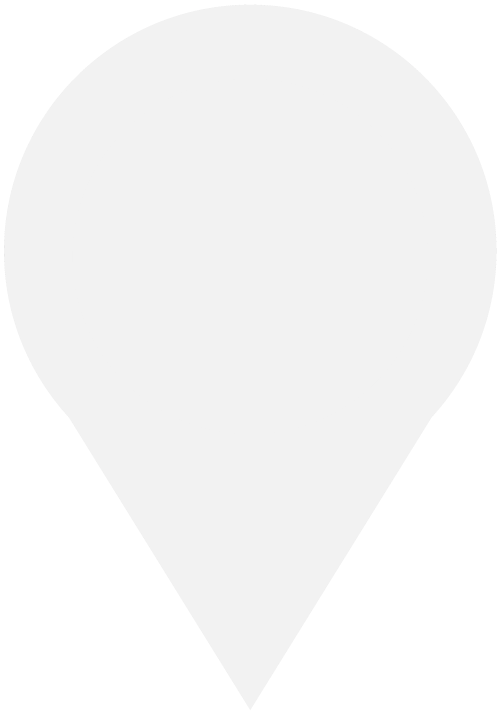
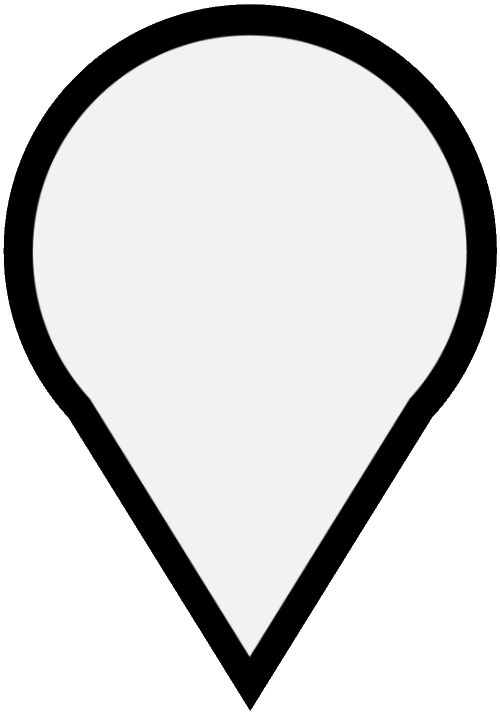
Refresh button. User photos on map markers.

Changed region(s): [[0.0, 0.0, 1.0, 1.0]]

diff --git a/app/screens/MapScreen.js b/app/screens/MapScreen.js
@@ -93,7 +93,7 @@ export default class MapScreen extends Component {
       this.updateMapMarkers();
     });
 
-    this.markersUpdateInterval = setInterval(this.updateMapMarkers, 10 * 1000);
+    //this.markersUpdateInterval = setInterval(this.updateMapMarkers, 10 * 1000);
 
     const { navigation } = this.props;
     this.focusListener = navigation.addListener("didFocus", () => {
@@ -119,6 +119,7 @@ export default class MapScreen extends Component {
   }
 
   componentWillUnmount() {
+    this.focused = false;
     this.focusListener.remove();
     this.blurListener.remove();
 
@@ -142,6 +143,7 @@ export default class MapScreen extends Component {
   }
 
   updateUserMarker() {
+    if (!this.focused) return;
     let markers = this.state.markers;
     // Add user marker
     if (UserData.location != null) {
@@ -169,6 +171,16 @@ export default class MapScreen extends Component {
     if (!this.focused) {
       return;
     }
+
+    let currentTime = new Date().getSeconds();
+    if (
+      this.timeSinceUpdatedMarkers &&
+      currentTime - this.timeSinceUpdatedMarkers < 10
+    ) {
+      return;
+    }
+    this.timeSinceUpdatedMarkers = currentTime;
+
     console.log("Updating markers");
     let markers = [];
 
@@ -201,6 +213,7 @@ export default class MapScreen extends Component {
             contentId: entry.val().imageId,
             title: entry.val().displayName,
             image: require("../../assets/map-marker-light.png"),
+            userPhotoURL: entry.val().photoURL,
           });
         });
         console.log("Setting markers " + markers.length);
@@ -262,6 +275,19 @@ export default class MapScreen extends Component {
                 style={styles.marker}
                 resizeMode="contain"
               />
+              <Image
+                source={{ uri: marker.userPhotoURL }}
+                style={{
+                  position: "absolute",
+                  top: 5,
+                  left: 12,
+                  width: 25,
+                  height: 25,
+                  borderRadius: 45,
+                  borderWidth: 2,
+                }}
+                resizeMode="contain"
+              />
             </Marker>
           ))}
         </MapView>
@@ -278,7 +304,14 @@ export default class MapScreen extends Component {
               imageSource={require("../../assets/settings-icon.png")}
               width={40}
               height={40}
-              customStyle={{}}
+              customStyle={{
+                backgroundColor: Global.GRAY,
+                borderColor: Global.GRAY,
+                borderRadius: 45,
+                borderWidth: 2,
+                padding: 5,
+                opacity: 0.8,
+              }}
               handlePress={() => {
                 console.log("Opening settings");
                 this.props.navigation.navigate("Settings");
@@ -290,12 +323,21 @@ export default class MapScreen extends Component {
         <View
           style={{
             flex: 1,
-            justifyContent: "flex-end",
-            alignItems: "center",
+            flexDirection: "row",
+            justifyContent: "space-between",
+            alignItems: "flex-end",
             paddingBottom: "5%",
+            paddingLeft: "5%",
+            paddingRight: "5%",
             pointerEvents: "none",
           }}
         >
+          <View
+            style={{
+              width: 50,
+              height: 50,
+            }}
+          ></View>
           <View>
             <ImageButton
               imageSource={require("../../assets/camera.png")}
@@ -307,7 +349,7 @@ export default class MapScreen extends Component {
                 borderRadius: 45,
                 borderWidth: 2,
                 padding: 5,
-                opacity: 0.8,
+                opacity: 0.9,
               }}
               handlePress={() => {
                 if (this.state.hasCameraPermission) {
@@ -322,6 +364,25 @@ export default class MapScreen extends Component {
                       });
                   });
                 }
+              }}
+            />
+          </View>
+
+          <View>
+            <ImageButton
+              imageSource={require("../../assets/refresh.png")}
+              width={50}
+              height={50}
+              customStyle={{
+                backgroundColor: Global.WHITE,
+                borderColor: Global.GRAY,
+                borderRadius: 45,
+                borderWidth: 2,
+                padding: 5,
+                opacity: 0.8,
+              }}
+              handlePress={() => {
+                this.updateMapMarkers();
               }}
             />
           </View>
